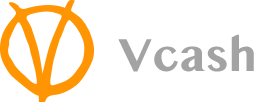
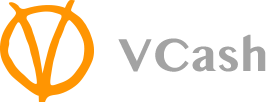
change Vcash to VCash

diff --git a/index.html b/index.html
@@ -35,7 +35,7 @@ layout: default
               Running A Node
             </a>
             <a href="https://github.com/vcashorg/vcash/wiki/How-to-use-the-Vcash-wallet" target="_blank" style="font-family: ArialMT;">
-              Using Vcash Wallet
+              Using VCash Wallet
             </a>
             <a href="https://github.com/vcashorg/vcash/blob/vcash/doc/pool_merge_mining.md" target="_blank" style="font-family: ArialMT;">
               Run A Miner
@@ -70,7 +70,7 @@ layout: default
 </div>
 
 <div class="index-content wrapper">
-  <p class="title-h1" style="margin-bottom: 30px">What is Vcash?</p>
+  <p class="title-h1" style="margin-bottom: 30px">What is VCash?</p>
 
   <p class="orange-title">Overview</p>
 
@@ -91,7 +91,7 @@ layout: default
 
 <div class="bg-gray">
   <div class="wrapper" style="position:relative; top: -160px;">
-    <p class="title-h1" style="margin-bottom: 35px">Why Vcash?</p>
+    <p class="title-h1" style="margin-bottom: 35px">Why VCash?</p>
 
     <div class="card">
       <div class="card__item">

diff --git a/_includes/footer.html b/_includes/footer.html
@@ -6,7 +6,7 @@
     <div class="footer-col-wrapper">
       <div class="footer__menu">
         <div class="footer__menu-item">
-          <div class="footer__menu-title">Vcash</div>
+          <div class="footer__menu-title">VCash</div>
           <div class="footer__menu-p">
             <a href="https://github.com/vcashorg/vcash" target="_blank">
               Github
@@ -37,7 +37,7 @@
           </div>
           <div class="footer__menu-p">
             <a href="https://github.com/vcashorg/vcash/wiki/How-to-use-the-Vcash-wallet" target="_blank" style="    font-family: ArialMT;">
-              Using Vcash Wallet
+              Using VCash Wallet
             </a>
           </div>
           <div class="footer__menu-p">
@@ -76,7 +76,7 @@
     </div>
 
     <div class="footer__license">
-      ©Vcash Project 2019 Released
+      ©VCash Project 2019 Released
     </div>
   </div>
 </footer>

diff --git a/_layouts/default.html b/_layouts/default.html
@@ -2,7 +2,7 @@
 <html lang="en">
 <head>
   <meta http-equiv="content-type" content="text/html; charset=UTF-8">
-  <title>Vcash</title>
+  <title>VCash</title>
   <meta name="description" content="VCash is the combined outcome of Bitcoin characteristics integrated with Mimblewimble technology. It inherits Bitcoin’s distribution mechanism and uses Grin's Mimblewimble implementation. ">
 
   <link rel="stylesheet" href="/assets/main.css">

diff --git a/_includes/header.html b/_includes/header.html
@@ -27,7 +27,7 @@
             Running A Node
           </a>
           <a href="https://github.com/vcashorg/vcash/wiki/How-to-use-the-Vcash-wallet" target="_blank" style="font-family: ArialMT;">
-            Using Vcash Wallet
+            Using VCash Wallet
           </a>
           <a href="https://github.com/vcashorg/vcash/blob/vcash/doc/pool_merge_mining.md" target="_blank" style="font-family: ArialMT;">
             Run A Miner

diff --git a/about.html b/about.html
@@ -5,7 +5,7 @@ permalink: /about/
 {% include header.html %}
 
 <div class="wrapper about" style="padding-bottom: 320px">
-  <p class="title-h1" style="margin-top: 47px; margin-bottom: 55px">What is Vcash?</p>
+  <p class="title-h1" style="margin-top: 47px; margin-bottom: 55px">What is VCash?</p>
 
   <img src="/image/background2.png" width="450" alt="vcash" style="margin-bottom: 37px">
 
